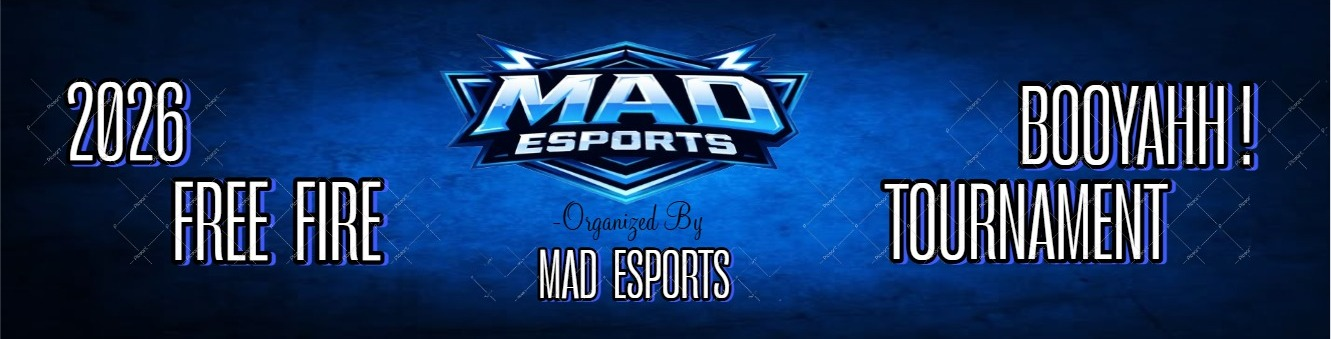
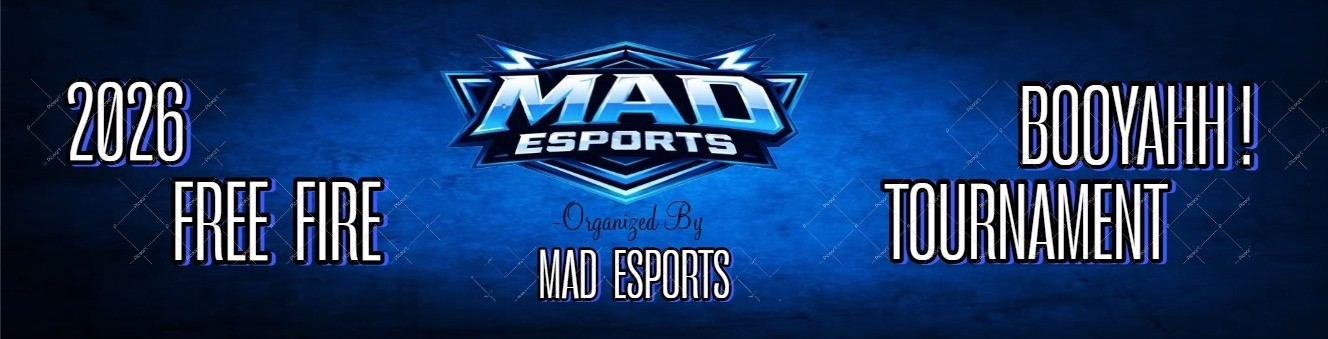
index.html updated & ff image also

diff --git a/index.html b/index.html
@@ -6,7 +6,7 @@
 <title>MadEsports</title>
 <style>
   * {margin:0;padding:0;box-sizing:border-box;font-family:Arial,sans-serif;}
-  body {background:#050b1e;color:white;}
+  body {background:#050b1e;color:#ffffff;padding-top:3px;}
   a {text-decoration:none;color:inherit;}
 
   /* Header */
@@ -14,9 +14,11 @@
     text-align:center;
     padding:0;
     background:#020617;
-    position:sticky;
+    position:static;
     top:0;
-    z-index:100;
+    left:0;
+    width:100%;
+    z-index:1000;
   }
 
   /* Banner Size */
@@ -29,40 +31,109 @@
     margin:0 auto;
   }
 
-  header h1 {
-    color:#3b82f6;
-    margin:10px 0;
-    font-size:28px;
-  }
+  /* BLUE + WHITE THEME */
+   h2, .card h3, .rules h2 {color:#3b82f6;}
+  .card span, .content p, .rules ul, .rules li {color:#dcecff;}
 
   /* Slider */
   .slider {position:relative; max-width:800px; margin:20px auto; border-radius:10px; overflow:hidden;}
   .slides {display:flex; transition:0.5s;}
   .slides img {width:100%; cursor:pointer;}
-  
+
   /* Games Section */
   .games {display:flex; flex-wrap:wrap; justify-content:center; gap:20px; padding:30px 10px;}
-  .card {background:#020617; padding:20px; width:200px; border-radius:10px; text-align:center; box-shadow:0 0 15px #2563eb; cursor:pointer; transition:transform 0.3s;}
+  .card {
+    background:#020617; 
+    padding:20px; 
+    width:200px; 
+    border-radius:30px; 
+    text-align:center; 
+    box-shadow:0 0 15px #3b82f6;
+    cursor:pointer; 
+    transition:transform 0.3s;
+    border:1px solid #3b82f6;
+  }
   .card:hover {transform:scale(1.05);}
   .card h3 {color:#3b82f6;margin-bottom:10px;}
-  .card span {color:#93c5fd;font-weight:500;}
+  .card h4 {color:#3b82f6;margin-bottom:10px;}
 
-  /* Collapsible Section */
-  .collapsible {background:#020617; color:white; cursor:pointer; padding:15px; width:90%; max-width:600px; margin:10px auto; border-radius:10px; border:1px solid #3b82f6;}
+  /*  This makes each span appear in a new line */
+  .card span {
+    color:#93c5fd;
+    font-weight:10;
+    display:block;      /* NEW LINE */
+    margin-bottom:6px;  /* Optional spacing between lines */
+  }
+
+  /* Collapsible Section CENTER ALIGN */
+  .collapsible {
+    background:#020617;
+    color:white;
+    cursor:pointer;
+    padding:15px;
+    width:100%;
+    max-width:600px;
+    margin:15px auto;
+    border-radius:50px;
+    border:1px solid #3b82f6;
+    text-align:center;
+  }
   .collapsible:after {content:'+'; float:right;}
   .active:after {content:'-';}
-  .content {padding:0 15px; max-height:0; overflow:hidden; transition:max-height 0.3s ease-out; background:#0f172a; border-radius:0 0 10px 10px; margin-bottom:10px;}
-  .content p {padding:10px 0; color:#cbd5f5;}
+  .content {
+    padding:0 15px;
+    max-height:0;
+    overflow:hidden;
+    transition:max-height 0.3s ease-out;
+    background:#0f172a;
+    border-radius:0 0 10px 10px;
+    margin:0 auto 10px auto;
+    width:90%;
+    max-width:600px;
+  }
+  .content p {padding:10px 0;}
 
-  /* Rules Section */
-  .rules {padding:40px 20px; max-width:800px; margin:auto;}
-  .rules h2 {text-align:center; color:#3b82f6; margin-bottom:20px;}
-  .rules ul {list-style:disc; margin-left:20px; color:#cbd5f5;}
-  .rules li {margin-bottom:8px;}
+/* ===== RULES SECTION ===== */
+.rules {
+  padding:45px 20px;
+  max-width:600px;
+  margin:auto;
+  text-align:left;
+}
 
-  /* Social Icons */
-  .socials {display:flex; justify-content:center; gap:20px; padding:20px;}
-  .socials a img {width:40px;height:40px; transition:transform 0.3s;}
+.rules h2 {
+  font-size:25px;     /* Bigger heading */
+  margin-top: 30px;      /* Space before heading */
+  margin-bottom:18px; /* Extra gap before bullet list */
+}
+
+.rules h1 {
+  font-size:25px;     /* Bigger heading */
+  margin-top:5px;      /* Space before heading */
+  margin-bottom:5px; /* Extra gap before bullet list */
+}
+
+
+.rules ul {
+  list-style:disc;
+  margin-left:35px;
+  line-height:1.5;    /* Better spacing between bullet points */
+  font-size:18px;     /* Slightly bigger text */
+}
+
+  /* Social Icons BLUE & WHITE */
+  .socials {
+    display:flex;
+    justify-content:center;
+    gap:25px;
+    padding:5px;
+  }
+  .socials a img {
+    width:25px;
+    height:25px;
+    transition:transform 0.3s;
+    filter:drop-shadow(0 0 8px #3b82f6);
+  }
   .socials a img:hover {transform:scale(1.2);}
 
   /* Footer */
@@ -82,16 +153,15 @@
 <!-- Header -->
 <header>
   <img src="/MadEsports Banner.jpeg" alt="MadEsports Banner">
-  <h1>MadEsports</h1>
+ 
 </header>
 
 <!-- Image Slider -->
 <div class="slider">
   <div class="slides">
-    <img src="/Name Mad Esports Logo.png" onclick="window.location.href='#'">
-    <img src="/Pain.jpg" onclick="window.location.href='#'">
-    <img src="/Madara Uchiha.jpg" onclick="window.location.href='#'">
-    <img src="/MadEsports Banner.jpeg" onclick="window.location.href='#'">  
+    <img src="/FF1.jpg" onclick="window.location.href='#'">
+    <img src="/FF2.jpg" onclick="window.location.href='#'">
+    <img src="/FF3.jpg" onclick="window.location.href='#'">
   </div>
 </div>
 
@@ -99,68 +169,91 @@
 <section class="games">
   <div class="card" onclick="window.location.href='#'">
     <h3>Free Fire</h3>
-    <span>Prize Pool: ₹5,000</span>
+    <h4>Coming Soon</h4>
+    <span>Entry Fee: ₹ 100 </span>
+    <span>Prize Pool: ₹ 800</span>
   </div>
   <div class="card" onclick="window.location.href='#'">
     <h3>BGMI</h3>
-    <span>Prize Pool: ₹10,000</span>
-  </div>
+    <h4>Coming Soon</h4>
+    <span>Entry Fee: ₹ --- </span>
+    <span>Prize Pool: ₹ ---</span>
+    </div>
 </section>
 
-<!-- Players/Teams Collapsible -->
-<button class="collapsible">Team Alpha</button>
+<!-- Collapsible -->
+<button class="collapsible">Register Team Name </button>
 <div class="content">
-  <p>Player1, Player2, Player3</p>
+  <p>----</p>
+  <p>----</p>
+  <p>----</p>
 </div>
-<button class="collapsible">Team Beta</button>
+
+<button class="collapsible">Top Best Team</button>
 <div class="content">
-  <p>PlayerA, PlayerB, PlayerC</p>
+  <p>----</p>
+  <p>----</p>
+  <p>----</p>
+  <p>----</p>
+
 </div>
 
 <!-- Top Players Collapsible -->
 <button class="collapsible">Top Players - Total Kills</button>
 <div class="content">
-  <p>PlayerX: 50 Kills</p>
-  <p>PlayerY: 45 Kills</p>
-  <p>PlayerZ: 40 Kills</p>
+  <p>-----: 50 Kills</p>
+  <p>-----: 45 Kills</p>
+  <p>-----: 40 Kills</p>
 </div>
 
-<!-- Rules & Maps Section -->
+<!-- Rules -->
 <section class="rules">
   <h2>Rules & Guidelines</h2>
   <ul>
-    <li>Follow fair play rules.</li>
-    <li>No cheating or hacking allowed.</li>
-    <li>Submit match screenshots as proof.</li>
-    <li>Respect all players and organizers.</li>
+    <li>Players must follow fair play and sportsmanship at all times.</li>
+    <li>Cheating, hacking, or using third-party scripts is strictly prohibited.</li>
+    <li>All matches must be played on the official Free Fire servers.</li>
+    <li>Screenshots or video proof of matches may be requested for verification.</li>
+    <li>Players must join the tournament lobby before the match starts.</li>
+    <li>No team switching or changing player names during the tournament.</li>
+    <li>Disrespectful behavior towards other players or organizers will result in disqualification.</li>
+    <li>Any technical issues must be reported immediately to the tournament admins.</li>
+    <li>Decisions by the tournament admins are final.</li>
   </ul>
+
   <h2>Maps & Tournament Details</h2>
   <ul>
-    <li>Map1: Bermuda</li>
-    <li>Map2: Kalahari</li>
-    <li>Map3: Pochinki</li>
+    <!--<h1>Free Fire</h2>-->
+    <li>Map 1: Bermuda</li>
+    <li>Map 2: Kalahari</li>
+    <li>Map 3: Purgatory</li>
+    <li>Map 4: Eclipse</li>
+  </ul>
+  <h2>Winner's Team Extra Gift</h2>
+  <ul>
+    <li>Winners Team Gets Free Slots In Next Big Tournament</li>
+    <li>E certificate</li>
+    
   </ul>
 </section>
 
-<!-- Social Icons -->
+<!-- Socials -->
 <div class="socials">
-  <a href="#"><img src="" alt="Instagram"></a>
-  <a href="#"><img src="https://via.placeholder.com/40/ff0000/ffffff?text=Y" alt="YouTube"></a>
-  <a href="#"><img src="https://via.placeholder.com/40/7289da/ffffff?text=D" alt="Discord"></a>
-  <a href="#"><img src="https://via.placeholder.com/40/25D366/ffffff?text=W" alt="WhatsApp"></a>
+  <a href="https://www.instagram.com/mad_esports3?igsh=MWFhMWFtZDdmdW5wdA=="><img src="https://cdn-icons-png.flaticon.com/512/174/174855.png" alt="Instagram"></a>
+  <a href="#"><img src="https://cdn-icons-png.flaticon.com/512/733/733590.png" alt="YouTube"></a>
+  <a href="#"><img src="https://cdn-icons-png.flaticon.com/512/3670/3670157.png" alt="Discord"></a>
+  <a href="https://chat.whatsapp.com/GmjGYRAJQwh70Cic5HSFXV"><img src="https://cdn-icons-png.flaticon.com/512/733/733585.png" alt="WhatsApp"></a>
 </div>
 
 <!-- Footer -->
-<footer>
-  <p>© 2025 MadEsports. All Rights Reserved</p>
-</footer>
+<footer><p>© 2025 Maddox. All Rights Reserved</p></footer>
 
 <script>
   // Slider JS
   let index = 0;
   const slides = document.querySelectorAll('.slides img');
   function showSlide() {
-    slides.forEach((slide,i)=>{slide.style.display='none';});
+    slides.forEach((slide)=> slide.style.display='none');
     slides[index].style.display='block';
     index = (index+1)%slides.length;
   }
@@ -173,11 +266,7 @@
     btn.addEventListener('click',()=>{
       btn.classList.toggle('active');
       const content = btn.nextElementSibling;
-      if(content.style.maxHeight){
-        content.style.maxHeight = null;
-      } else {
-        content.style.maxHeight = content.scrollHeight + "px";
-      }
+      content.style.maxHeight = content.style.maxHeight ? null : content.scrollHeight + "px";
     });
   });
 </script>
